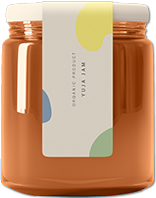
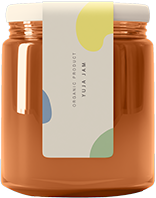
Add files via upload

diff --git a/css/style.css b/css/style.css
@@ -419,7 +419,7 @@ display: none;
     padding: 30px 20px;
     box-sizing: border-box;
     background-color: #ffffff;
-    box-shadow: 2px 2px 2px rgba(0, 0, 0, 0.3);
+    box-shadow: 3px 3px 10px rgba(0, 0, 0, 10%);
     position: relative;
     overflow: hidden;
 }
@@ -428,7 +428,9 @@ display: none;
     height: 397px;
     transform: translate(30px, -350px);
 }
-
+.p_juice img{
+    filter: drop-shadow(7px 7px 10px rgba(0, 0, 0, 20%)); 
+}
 .p_name{
     color: #fbd31a;
     font-size: 18px;
@@ -461,7 +463,7 @@ display: none;
     padding: 30px 20px;
     box-sizing: border-box;
     background-color: #ffffff;
-    box-shadow: 2px 2px 2px rgba(0, 0, 0, 0.3);
+    box-shadow: 2px 2px 10px rgba(0, 0, 0, 10%);
     position: relative;
     overflow: hidden;
 }
@@ -469,6 +471,9 @@ display: none;
     width: 113px;
     height: 212px;
     transform: translate(200px, -250px);
+}
+.p_oil img{
+filter: drop-shadow(3px 3px 10px rgba(0, 0, 0, 15%));
 }
 
 .caption_oil h2{
@@ -493,7 +498,7 @@ display: none;
     padding: 30px 20px;
     box-sizing: border-box;
     background-color: #ffffff;
-    box-shadow: 3px 3px 3px rgba(0, 0, 0, 0.3);
+    box-shadow: 3px 3px 10px rgba(0, 0, 0, 15%);
     position: relative;
     overflow: hidden;
 }
@@ -502,7 +507,9 @@ display: none;
     height: 333px;
     transform: translate(50px, -350px);
 }
-
+.p_tea img{
+    filter: drop-shadow(3px 3px 10px rgba(0, 0, 0, 15%)); 
+}
 .box_tea_wrap:hover{
     
 }
@@ -521,7 +528,7 @@ display: none;
     padding: 30px 20px;
     box-sizing: border-box;
     background-color: #ffffff;
-    box-shadow: 3px 3px 3px rgba(0, 0, 0, 0.3);
+    box-shadow: 3px 3px 10px rgba(0, 0, 0, 10%);
     position: relative;
     overflow: hidden;
 }
@@ -529,6 +536,9 @@ display: none;
     width: 141px;
     height: 208px;
     transform: translate(240px, -180px);
+}
+.p_chocolate img{
+    filter: drop-shadow(3px 3px 10px rgba(0, 0, 0, 20%)); 
 }
 .caption_chocolate h2{
     color: #03951b;}
@@ -551,7 +561,7 @@ display: none;
     padding: 30px 20px;
     box-sizing: border-box;
     background-color: #ffffff;
-    box-shadow: 3px 3px 3px rgba(0, 0, 0, 0.3);
+    box-shadow: 3px 3px 10px rgba(0, 0, 0, 10%);
     position: relative;
     overflow: hidden;
 }
@@ -559,6 +569,9 @@ display: none;
     width: 156px;
     height: 196px;
     transform: translate(30px, -220px);
+}
+.p_jam img{
+    filter: drop-shadow(3px 3px 10px rgba(0, 0, 0, 20%)); 
 }
 .caption_jam h2{
     color: #f56708;}
@@ -612,6 +625,9 @@ display: none;
         height: 270px;
         float: left;
         box-sizing: border-box;
+    }
+    .m_box_left img{
+        filter: drop-shadow(3px 3px 10px rgba(0, 0, 0, 20%)); 
     }
    
     .m_box_right{
@@ -667,7 +683,7 @@ display: none;
 }
 /*event_banner*/
 #event_banner{
-    margin: 100px 0;
+    margin: 100px 0 0;
 }
 /*pc*/
 @media (min-width:700px){
@@ -697,8 +713,10 @@ display: none;
 /*about*/
 #about{
     width: 1320px;
-    height: 1540px;
+    height: 1600px;
     margin: 0 auto;
+    padding: 100px 0 0;
+    box-sizing: border-box;
     background-image: url(../image/about_bg.png);
     background-repeat: no-repeat;
     background-position: right top;
@@ -726,7 +744,7 @@ display: none;
     float: left; 
     border-radius: 50px 50px 0 50px;
     background-image: url(../image/about_image_01.png);
-    box-shadow: 2px 2px 2px rgba(0, 0, 0, 0.3);   
+    box-shadow: 3px 3px 10px rgba(0, 0, 0, 15%);   
 }
 .a_box01_text{
     width: 680px;
@@ -740,7 +758,7 @@ display: none;
     background-image: url(../image/about_icon_01.png);
     background-repeat: no-repeat;
     background-position: top 50px center;
-    box-shadow: 2px 2px 2px rgba(0, 0, 0, 0.3);
+    box-shadow: 3px 3px 10px rgba(0, 0, 0, 10%); 
     z-index: 99;    
 }
 /*a_box02*/
@@ -749,7 +767,7 @@ display: none;
     height: 400px;   
     float: right;
     box-sizing: border-box;
-    margin-right: 5px;
+    margin-right: 0;
     z-index: 50;
 }
 .a_box02_image{
@@ -758,7 +776,7 @@ display: none;
     float: left;
     border-radius: 0 50px 50px 50px;
     background-image: url(../image/about_image_02.png);
-    box-shadow: 2px 2px 2px rgba(0, 0, 0, 0.3);   
+    box-shadow: 0px 3px 10px rgba(0, 0, 0, 15%);   
 }
 .a_box02_text{
     width: 680px;
@@ -771,7 +789,7 @@ display: none;
     background-image: url(../image/about_icon_02.png);
     background-repeat: no-repeat;
     background-position: top 50px center;
-    box-shadow: 2px 2px 2px rgba(0, 0, 0, 0.3);
+    box-shadow: -3px 3px 10px rgba(0, 0, 0, 10%); 
         
 }
 /*.a_box03*/
@@ -788,7 +806,7 @@ display: none;
     float: left; 
     border-radius: 50px 50px 0 50px;
     background-image: url(../image/about_image_03.png);
-    box-shadow: 2px 2px 2px rgba(0, 0, 0, 0.3);   
+    box-shadow: 3px 3px 10px rgba(0, 0, 0, 25%);   
 }
 .a_box03_text{
     width: 680px;
@@ -802,7 +820,7 @@ display: none;
     background-image: url(../image/about_icon_03.png);
     background-repeat: no-repeat;
     background-position: top 50px center;
-    box-shadow: 2px 2px 2px rgba(0, 0, 0, 0.3);
+    box-shadow: 3px 3px 10px rgba(0, 0, 0, 10%); 
     z-index: 99;    
 }
 /*pc*/
@@ -867,7 +885,7 @@ display: none;
 /*footer*/
 #footer_wrap{
     height: 240px;
-    margin: 200px auto 0;
+    margin: 100px auto 0;
     background-color: #ddd; 
     text-align: center;
     padding: 40px 0;

diff --git a/index.html b/index.html
@@ -360,7 +360,7 @@
                         <h2 class="m_tea">YUJA TEA</h2>
                         <p class="p_capaticy">100 g</p>
                         <p class="p_price">20,000 원</p>
-                        <pclass="b_detail"><img src="image/button_detail.png" alt=""></p>
+                        <p class="b_detail"><img src="image/button_detail.png" alt=""></p>
                         </a>
                 </li>
             </ul>
